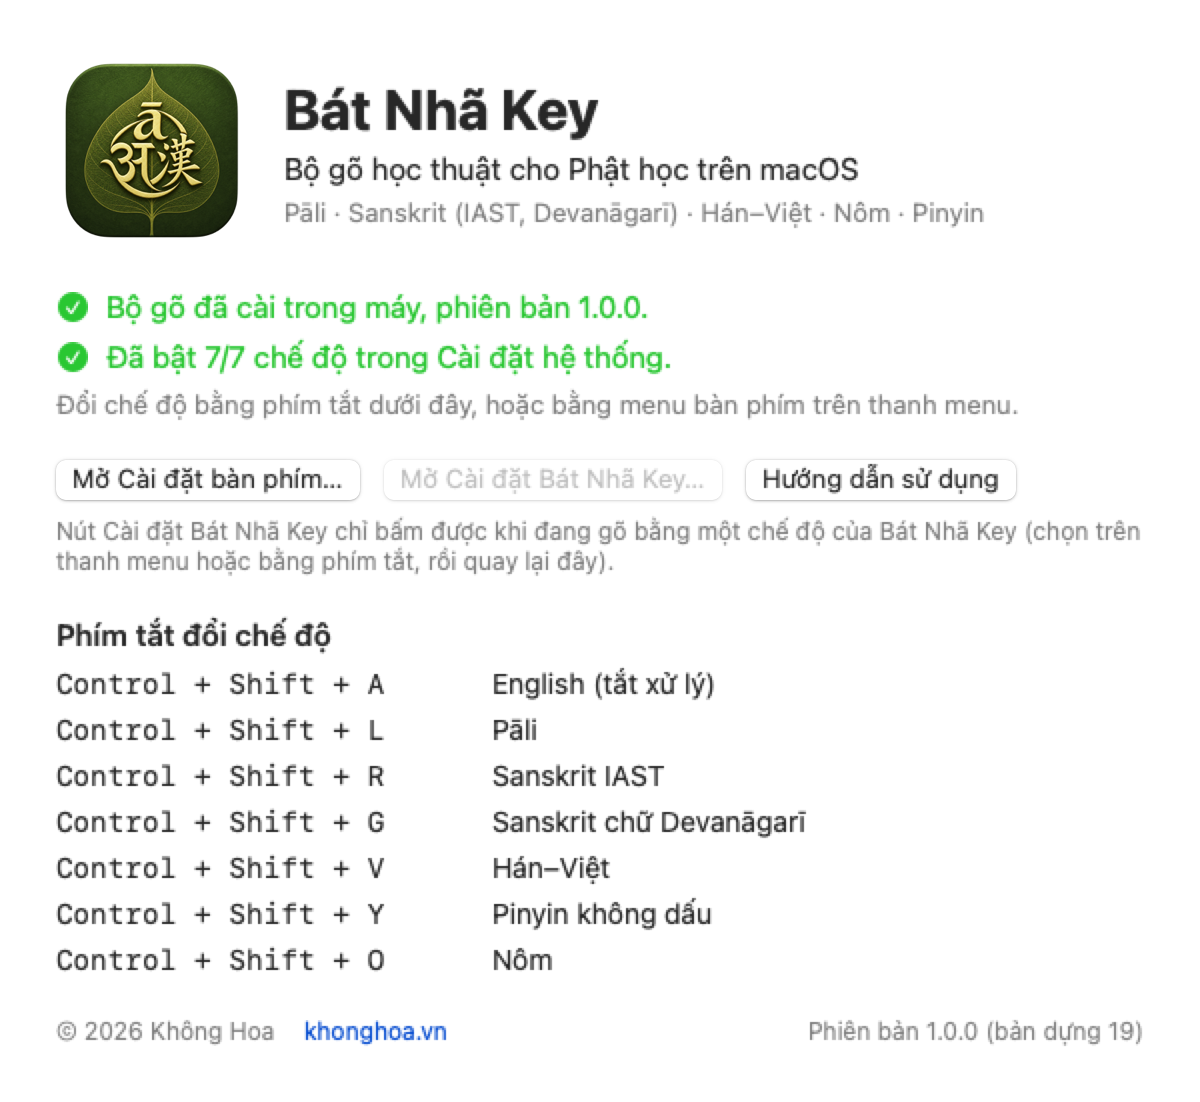
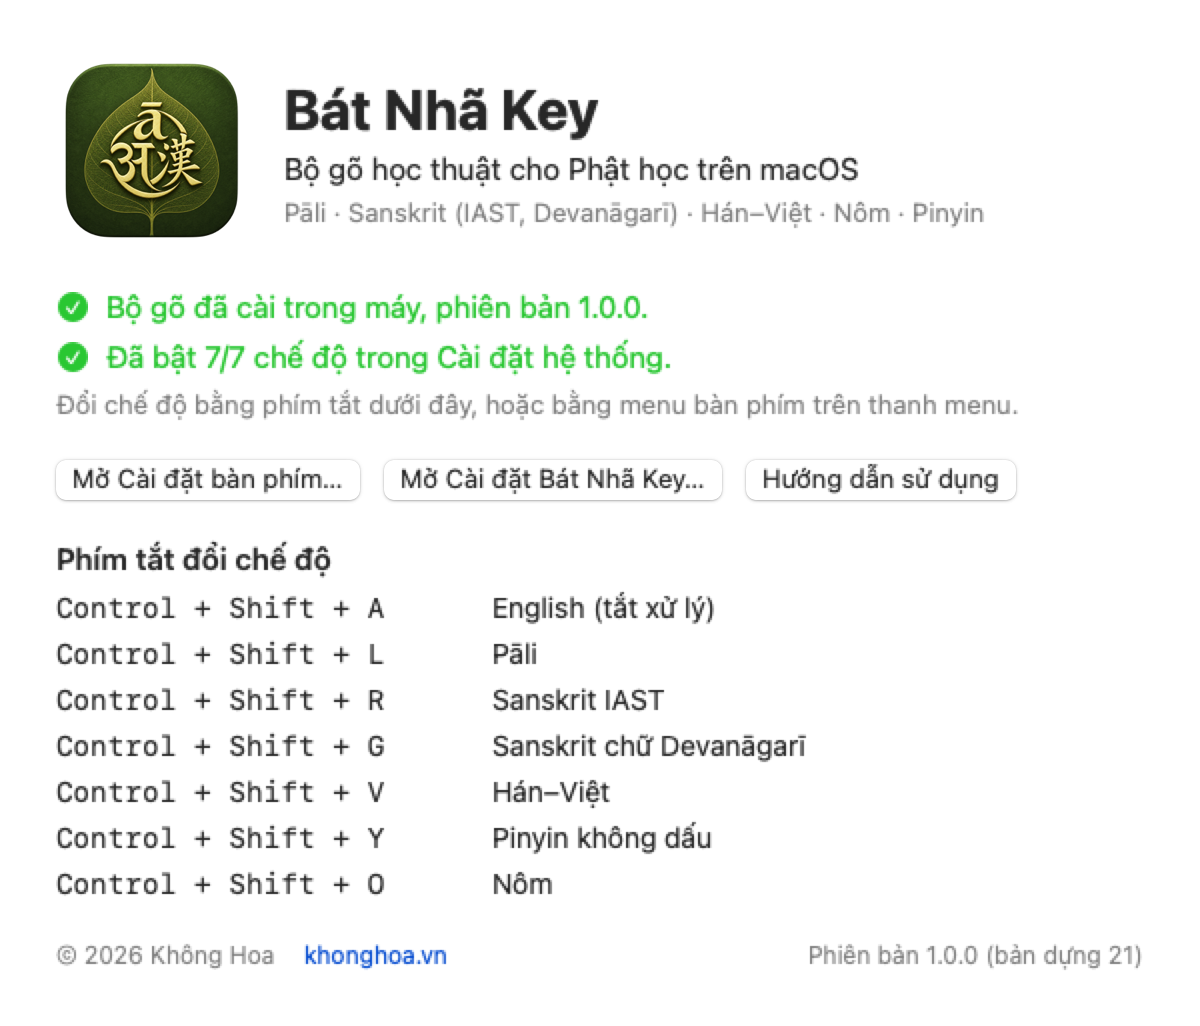
Hướng dẫn: nút Cài đặt trong ứng dụng đi kèm sáng khi bộ gõ đang chạy

diff --git a/SU-DUNG.md b/SU-DUNG.md
@@ -119,8 +119,8 @@ kèm chữ Hán không; bảng nhắc phím; nguồn dữ liệu và giấy phé
 ![Cửa sổ Cài đặt Bát Nhã Key](images/cai-dat.png)
 
 Ngoài ra có **ứng dụng Bát Nhã Key** trong Launchpad: nó cho biết bộ gõ đã cài và bật mấy chế độ, có
-bảng phím tắt, nút mở Cài đặt bàn phím của macOS và nút mở cửa sổ Cài đặt trên (nút này chỉ bấm được
-khi đang gõ bằng một chế độ Bát Nhã Key).
+bảng phím tắt, nút mở Cài đặt bàn phím của macOS và nút mở cửa sổ Cài đặt trên (nút này sáng lên khi bộ gõ
+đang chạy, tức đã chọn một chế độ Bát Nhã Key ở đâu đó trong phiên này).
 
 ## Vài mẹo
 
